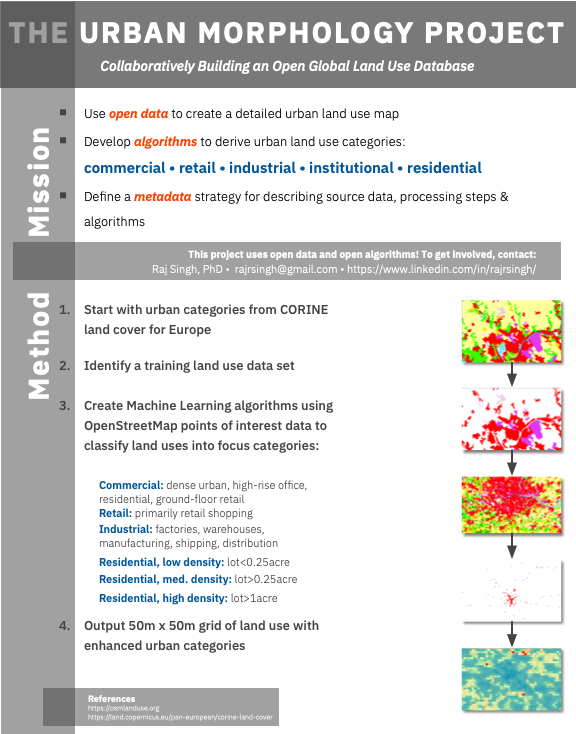
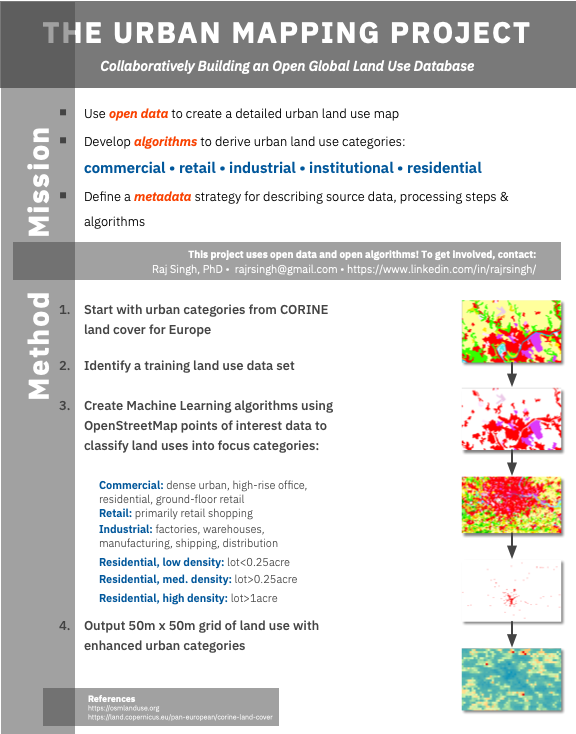
new graphic

Changed region(s): [[0.0, 0.03, 0.9688, 0.0599]]

diff --git a/index.html b/index.html
@@ -17,8 +17,8 @@
     <table>
     <tbody>
     <tr>
-      <td width="33%" style="padding:24px;vertical-align:top">
-        <p>The Urban Mapping Project is a collaborative effort to develop an open global urban land use database. Prior efforts at global land use mapping have focused on categorizing land cover by natural features such as forest, agriculture, and water, leaving urban use as a single, homogeneous category. This has been useful for environmental issues and looking at the spread of human settlement, but there has been little work on breaking that urban use category into its constituent parts such as residential, industrial, commercial, etc.</p>
+      <td width="300px" style="padding:24px;vertical-align:top">
+        <p><b>The Urban Mapping Project</b> is a collaborative effort to develop an open global urban land use database. Prior efforts at global land use mapping have focused on categorizing land cover by natural features such as forest, agriculture, and water, leaving urban use as a single, homogeneous category. This has been useful for environmental issues and looking at the spread of human settlement, but there has been little work on breaking that urban use category into its constituent parts such as residential, industrial, commercial, etc.</p>
         <p>Such a database would be of tremendous value to urban scientists and designers in a wide range of fields. Using open data sets in conjunction with the very high resolution satellite imagery (sub-30m) just becoming publicly available, we seek to develop machine learning models tuned to the distinct developmental patterns that exist across the globe that can identify these urban land use forms.</p>
 
         <h3>References</h3>
@@ -30,7 +30,7 @@
         </ul>
       </td>
       <td style="padding:24px;vertical-align:top">
-        <img src="./thump_flyer.png" />
+        <img src="./thump_poster.png" />
       </td>
     </tr>
     </tbody>
